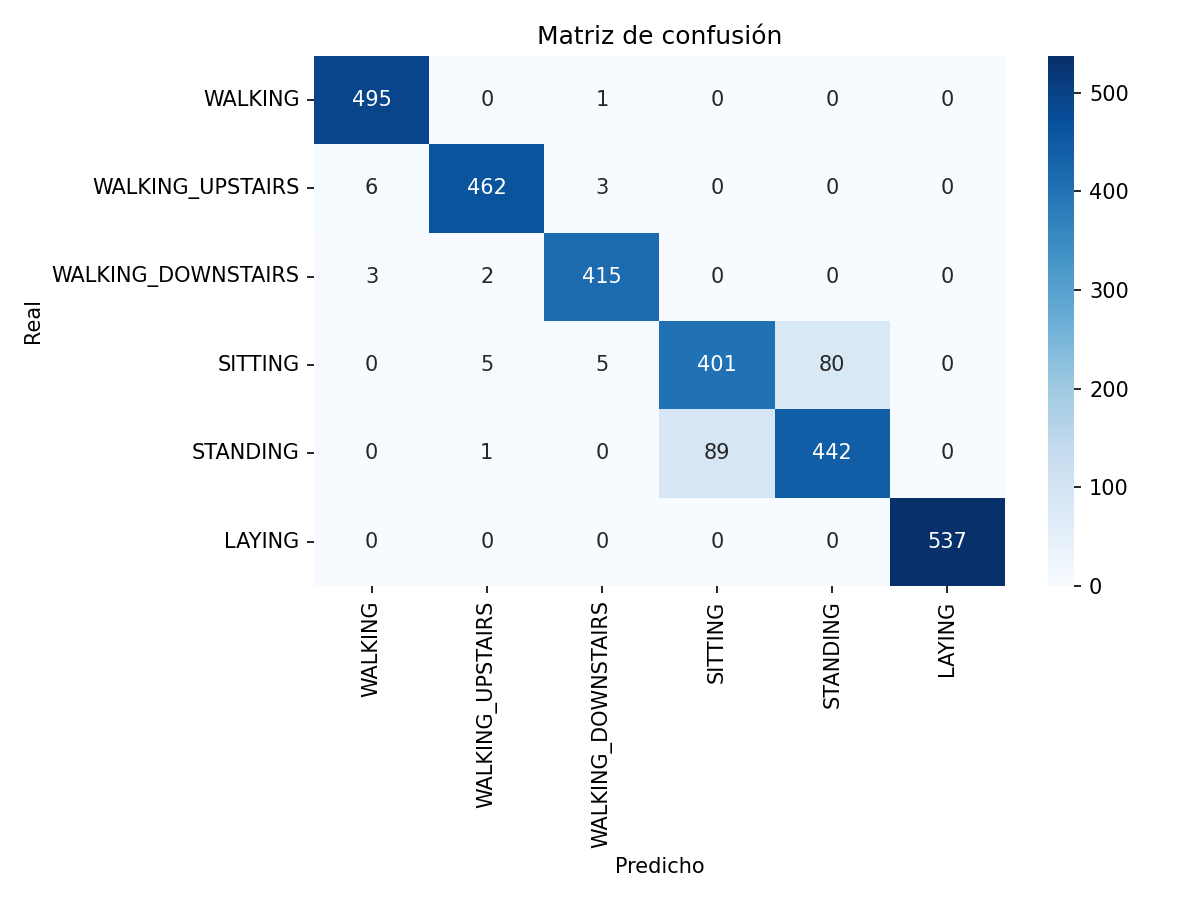
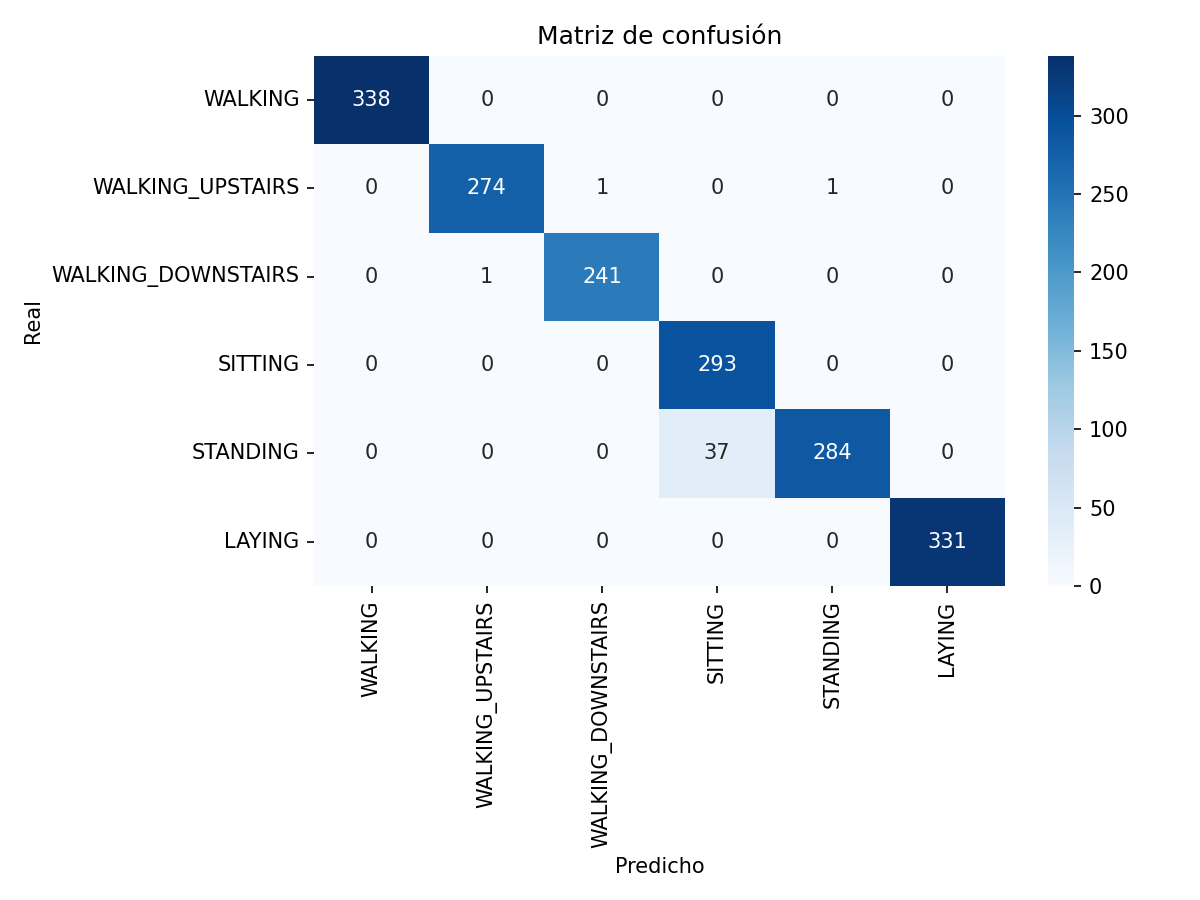
Actualizar sitio Netlify con modelo y metricas en validacion
- Regenerar samples.json.gz y assets desde evidencias/

- meta.json lee val/test accuracy; matriz en figcaption es val

diff --git a/site/index.html b/site/index.html
@@ -65,7 +65,7 @@
         <div class="figures">
           <figure>
             <img src="/assets/confusion_matrix.png" alt="Matriz de confusión"/>
-            <figcaption>Matriz de confusión (test)</figcaption>
+            <figcaption>Matriz de confusión (validación, literal c)</figcaption>
           </figure>
           <figure>
             <img src="/assets/loss_curves.png" alt="Curvas de pérdida"/>

diff --git a/scripts/build_netlify_site.py b/scripts/build_netlify_site.py
@@ -63,13 +63,25 @@ def main() -> None:
     assets = SITE / "assets"
     assets.mkdir(exist_ok=True)
 
+    metrics_path = EVIDENCIAS / "metrics_final.json"
+    if not metrics_path.exists():
+        metrics_path = ROOT / "results" / "metrics" / "metrics_final.json"
+    with open(metrics_path, encoding="utf-8") as f:
+        metrics_file = json.load(f)
+    val_acc = float(metrics_file["val"]["accuracy"])
+    test_acc = float(metrics_file["test"]["accuracy"])
+
     meta = {
         "activity_names": ACTIVITY_NAMES,
         "channels": INERTIAL_CHANNELS,
         "n_samples": n,
         "metrics": {
-            "test_accuracy": 0.9338,
-            "note": "Inferencia precomputada; mismo modelo que evidencias/final_model.pt",
+            "val_accuracy": val_acc,
+            "test_accuracy": test_acc,
+            "note": (
+                "Explorador: predicciones precomputadas en test. "
+                "Figuras: matriz y curvas según evidencias/ (val, literal c)."
+            ),
         },
     }
     with open(SITE / "data" / "meta.json", "w", encoding="utf-8") as f: